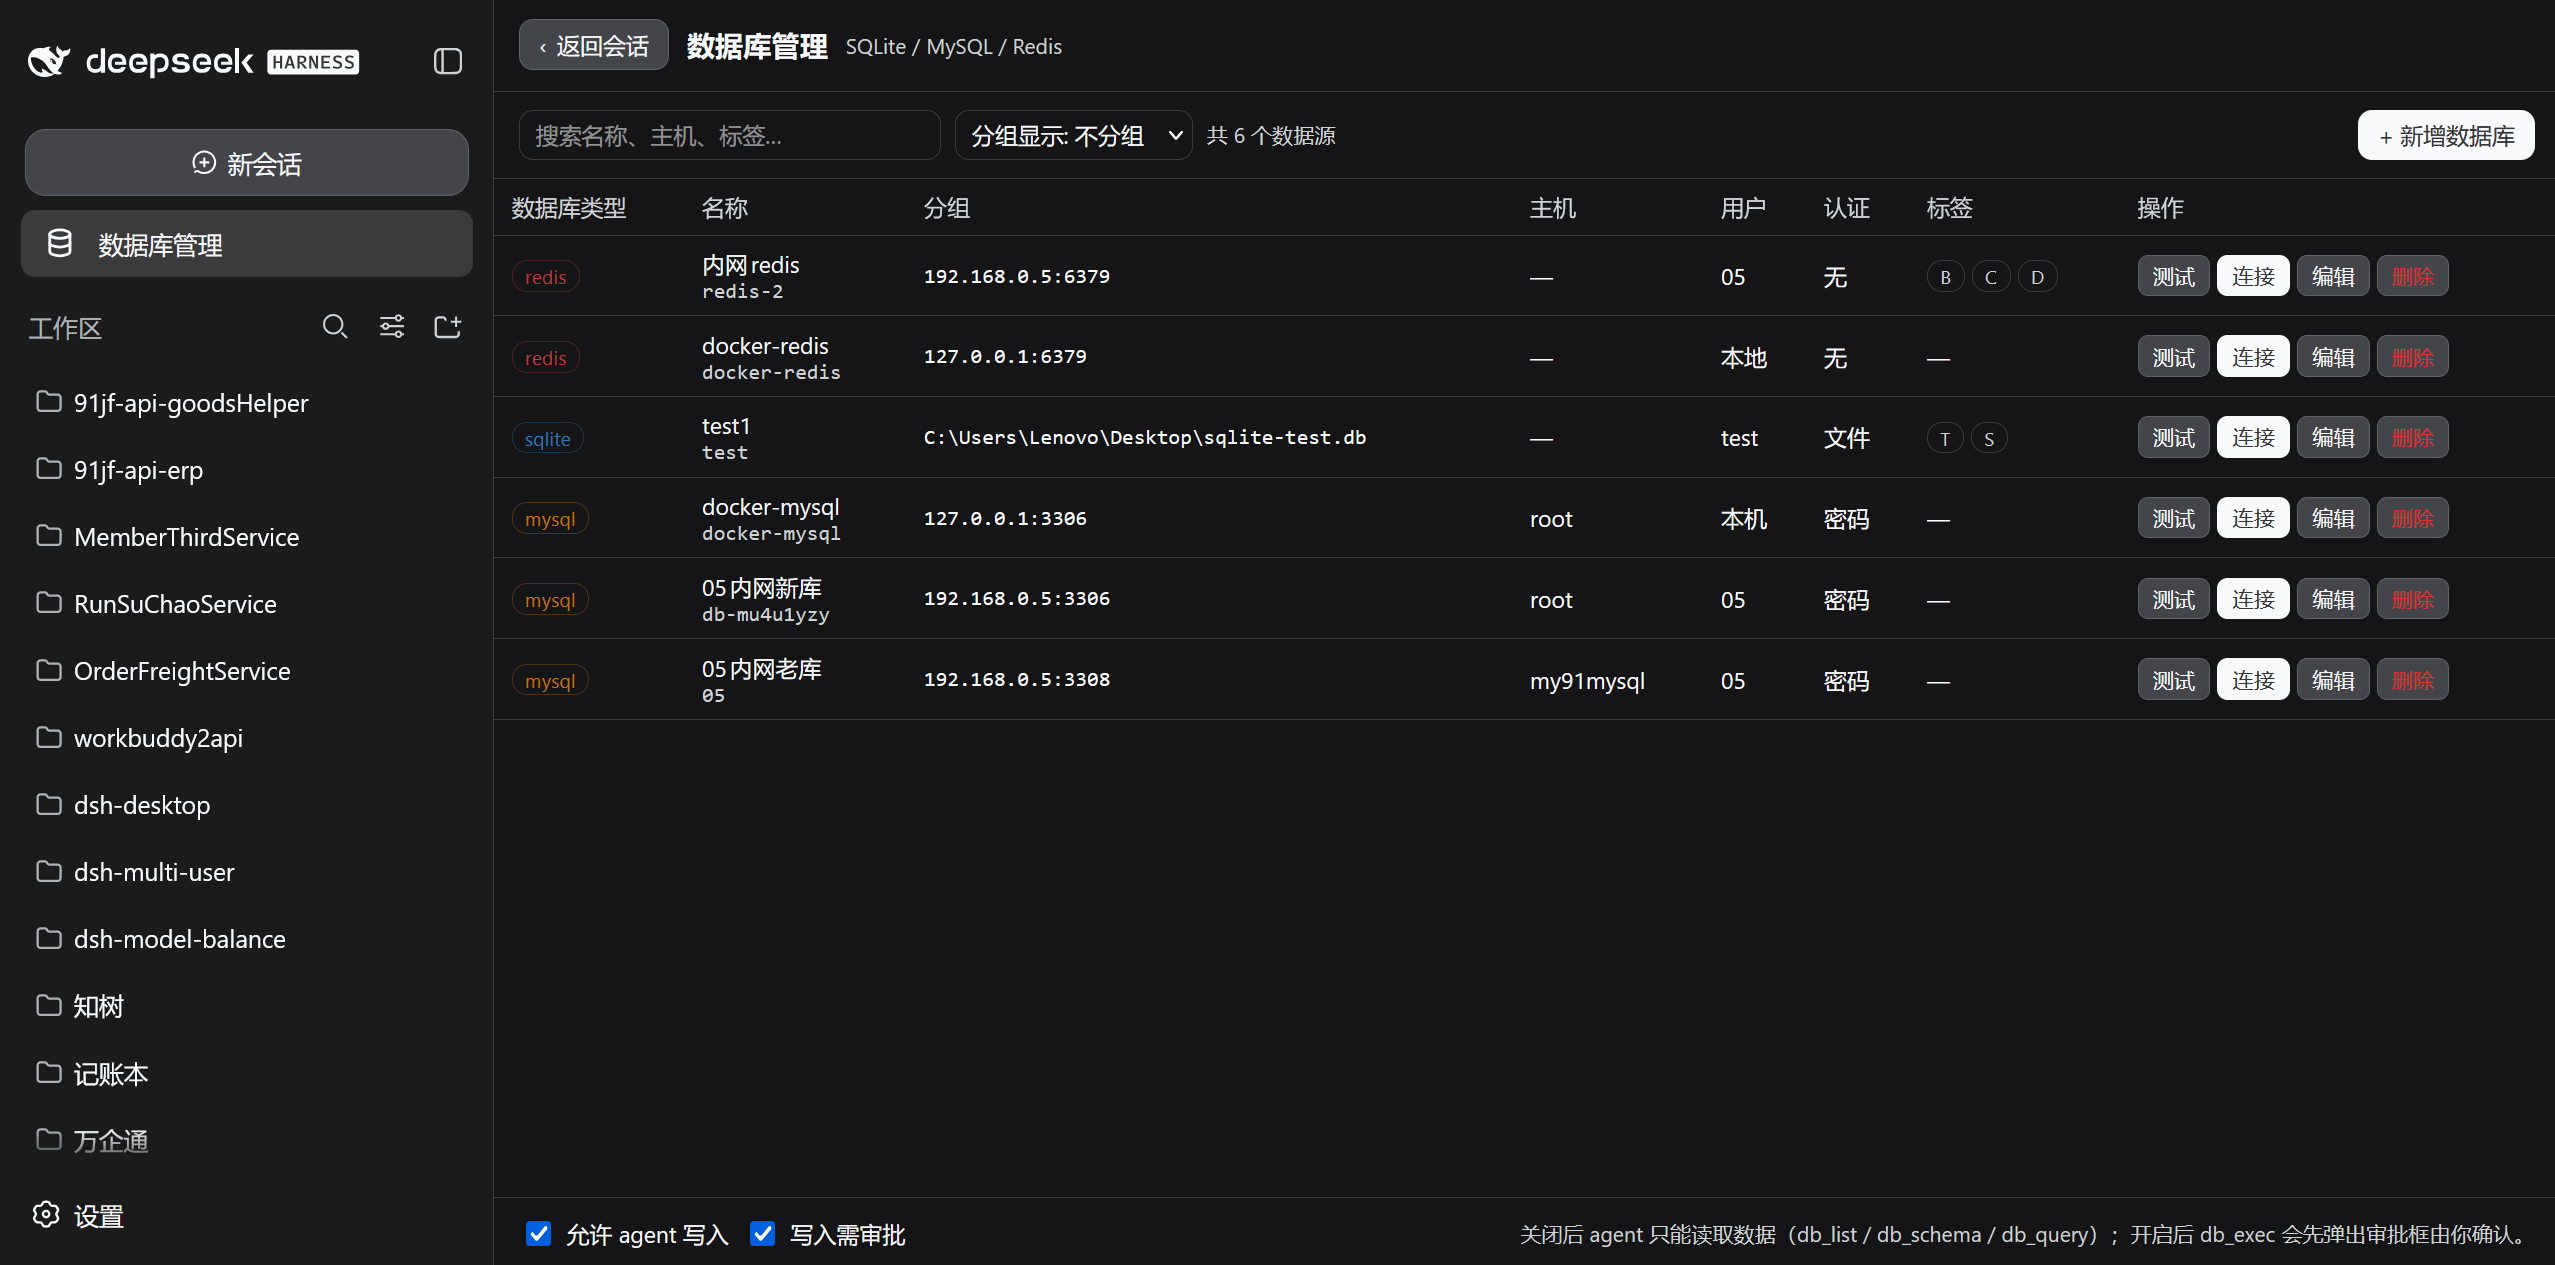
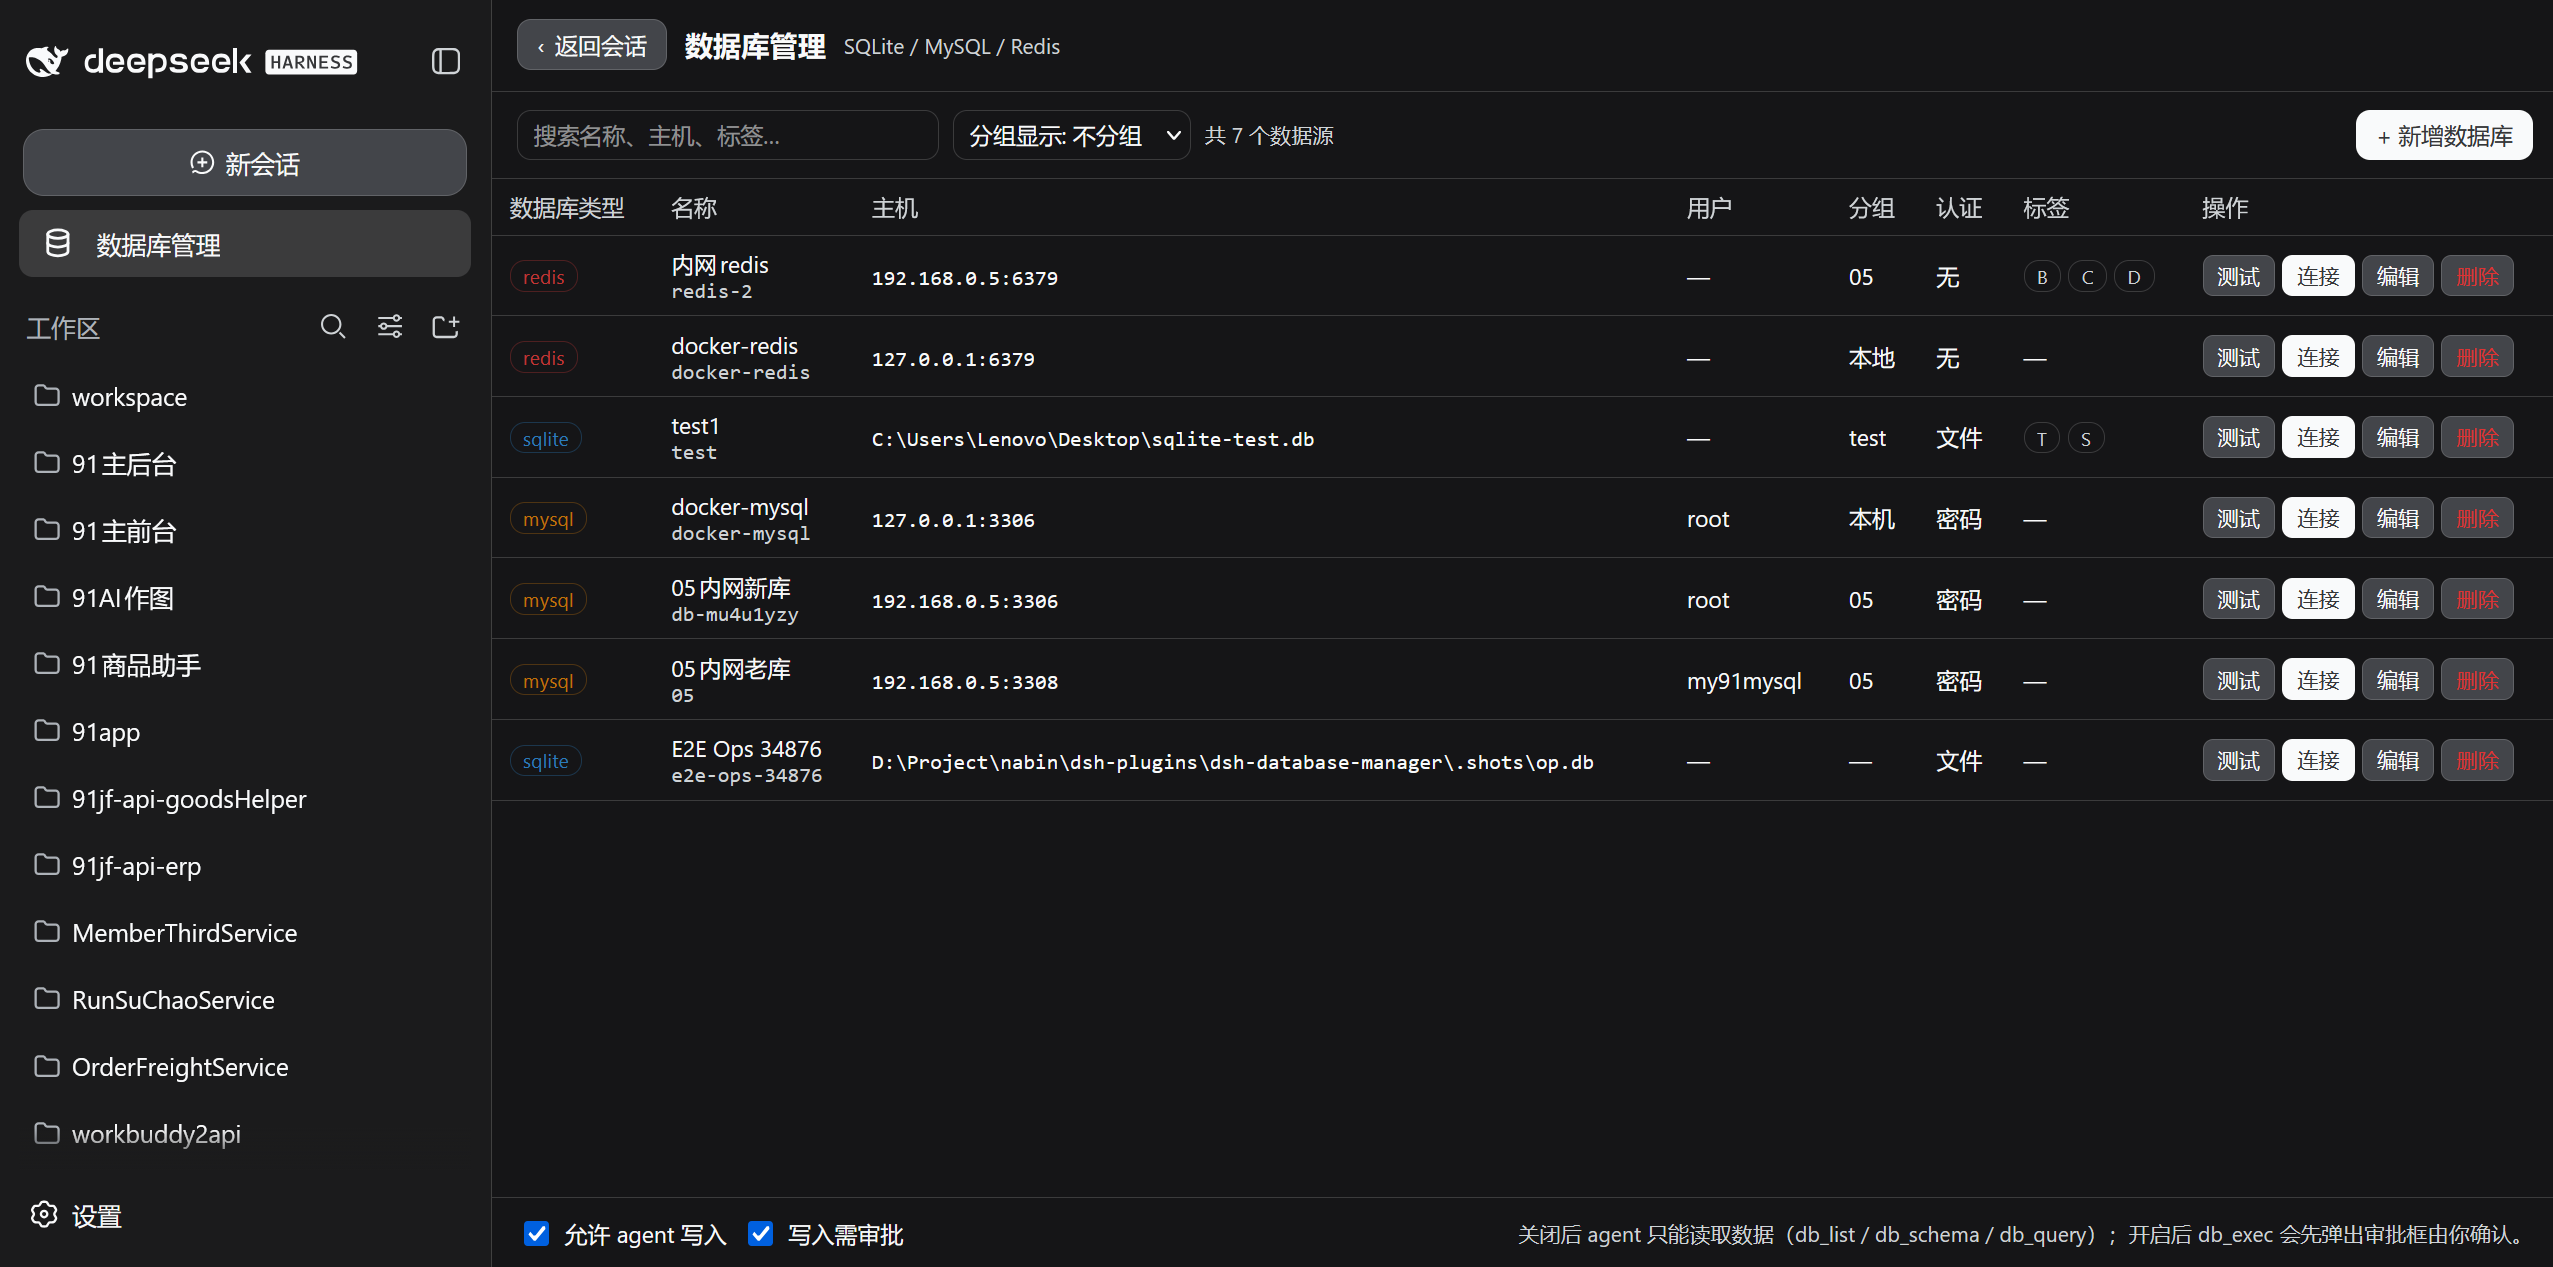
docs: 补全界面截图，并按「只讲本项目功能」清理 README
README 原先把本面板定位成 phpMyAdmin / RedisDesktopManager 的类比（「类 phpMyAdmin」「照 phpMyAdmin 的操作页」「五块按 phpMyAdmin 的顺序」等），并在能力边界末尾导流到一份内部对照报告。这是给使用者看的项目说明，不该把别人的产品当作自己的功能说明，也不该在文档里指向不公开的内部记录。

改动：删除 README.md / README.en.md 中全部 phpMyAdmin、RedisDesktopManager、Navicat、redis-cli 的提法，改为直接描述本项目功能；补入 5 张新截图（数据库列表正名为 sql-databases.png，新增浏览 / 结构 / 插入 / 搜索 / 操作各一），中英两版逐节对应，共 8 图。

截图数据取自本地 docker-mysql 与本地 Redis，不含内网地址。

diff --git a/README.en.md b/README.en.md
@@ -8,7 +8,7 @@
 
 A **database management** panel for the [DeepSeek Harness](https://github.com/deepseek-ai/deepseek-harness) Web GUI: one "Database Manager" entry in the sidebar that opens a unified panel for **SQLite / MySQL / Redis**, plus a set of agent tools gated behind a write-protection switch.
 
-No need to leave DSH, and no need to open Navicat / RedisDesktopManager / redis-cli in parallel: browse rows, change schemas, run SQL and inspect Redis keys all in the same interface.
+No need to leave DSH, and no need to open a separate database client: browse rows, change schemas, run SQL and inspect Redis keys all in the same interface.
 
 <p align="center"><img src="docs/images/data-source-list.png" alt="Data source list" width="900"></p>
 
@@ -36,7 +36,7 @@ No need to leave DSH, and no need to open Navicat / RedisDesktopManager / redis-
 - Actions: **Test** (connectivity + latency + server version), **Connect** (open the engine panel), **Edit**, **Delete**
 - Every source carries its own **read-only** flag plus tags / group, and can be added or removed at runtime — no config file edits, no restart
 
-### MySQL / SQLite Panel (phpMyAdmin-style)
+### MySQL / SQLite Panel
 
 A schema / table tree on the left (search filter, view markers, row counts), six tabs on the right:
 
@@ -45,13 +45,13 @@ A schema / table tree on the left (search filter, view markers, row counts), six
 | **Browse** | Paging and page jump, sort by column, sort by index, column comments under the column name, table comment at the right of the paging row, double-click a cell to edit in place, row edit / copy to insert form / delete, multi-select bulk delete. Also hosts SQL result sets |
 | **Structure** | Change / drop / add columns (same controls as the create-table page), primary key editing, unique constraints, index management, distinct-value counts; the action column is pinned to the far right |
 | **SQL** | Editor, Ctrl+Enter to run; SELECT results land on the Browse tab |
-| **Search** | phpMyAdmin-style query by example (QBE): one row per column, only rows with a value take part, conditions are ANDed |
+| **Search** | Query by example (QBE): one row per column, only rows with a value take part, conditions are ANDed |
 | **Insert** | Controls chosen per column type; "number of rows to insert" generates several independent forms submitted in one transaction |
-| **Operations** | Modelled on the phpMyAdmin operations page: move table / table options / copy table / table maintenance / delete data or table |
+| **Operations** | Move table / table options / copy table / table maintenance / delete data or table |
 
 There is also **import / export**: SQL dump (structure / data / DROP optional, whole database or a single table) and CSV (current table), both performed in the browser.
 
-### Redis Panel (RedisDesktopManager-style)
+### Redis Panel
 
 A **key tree** on the left, three tabs on the right:
 
@@ -107,11 +107,41 @@ Two classes of dangerous operation on large tables state their cost before you c
 
 All three source kinds in one place: kind, name, host, user, authentication and tags visible at a glance, with Test / Connect / Edit / Delete per row. The two write-protection switches sit at the bottom of the panel.
 
-### SQL panel
+### Database list and database operations
 
-<p align="center"><img src="docs/images/sql-panel.png" alt="SQL panel" width="900"></p>
+<p align="center"><img src="docs/images/sql-databases.png" alt="Database list and database operations" width="900"></p>
 
-The schema / table tree on the left, the table list and database operations on the right (export database, import into database, rename, copy database, charset, create table). Opening a table reveals six tabs: Browse / Structure / SQL / Search / Insert / Operations.
+The schema / table tree on the left, the table list and database operations on the right (export database, import into database, rename, copy database, charset, create table).
+
+### Browsing data
+
+<p align="center"><img src="docs/images/sql-browse.png" alt="Browsing data" width="900"></p>
+
+Paging and page jump, sort by index, double-click a cell to edit in place, with edit / copy / delete at the end of each row. Column comments sit under the column name, the table comment at the right of the paging row.
+
+### Table structure
+
+<p align="center"><img src="docs/images/sql-structure.png" alt="Table structure" width="900"></p>
+
+Column attributes at a glance (type, nullable, key, default, extra, distinct-value count, comment) with the action column pinned to the far right; indexes are listed below.
+
+### Inserting data
+
+<p align="center"><img src="docs/images/sql-insert.png" alt="Inserting data" width="900"></p>
+
+One row per column, controls chosen by column type. Auto-increment columns are marked "auto-generated when left blank", `datetime` gets a date picker, `enum` a member dropdown, long text a multi-line box with an "empty string" checkbox.
+
+### Searching data
+
+<p align="center"><img src="docs/images/sql-search.png" alt="Searching data" width="900"></p>
+
+Query by example: the header is field / type / collation / operator / value with **one row per column**, only rows with a value take part, and conditions are ANDed. `Execute` and `Clear conditions` stick to the bottom of the viewport.
+
+### Table operations
+
+<p align="center"><img src="docs/images/sql-operations.png" alt="Table operations" width="900"></p>
+
+Move table / table options / copy table / table maintenance / delete data or table — five blocks in order.
 
 ### Redis panel
 
@@ -274,7 +304,7 @@ The E2E scripts (`scripts/e2e-*.mjs`) assert interface **behaviour** rather than
 
 ## Scope and Limitations
 
-This panel is positioned as a **lightweight panel for day-to-day data browsing, schema changes and SQL**, not a MySQL server management suite. What it deliberately does **not** do, compared with phpMyAdmin:
+This panel is positioned as a **lightweight panel for day-to-day data browsing, schema changes and SQL**, not a MySQL server management suite. It deliberately does **not** do:
 
 - User and privilege management (creating users, grants, password changes, account locking)
 - Server status, processes, variables, charsets, engines, plugins, binary log, replication
@@ -284,8 +314,6 @@ This panel is positioned as a **lightweight panel for day-to-day data browsing, 
 - Export covers only SQL dumps and CSV (no compression, no result-set export, single-table truncation at 200k rows)
 - The SQL tab runs one statement at a time, with no syntax highlighting / autocomplete / formatting, and no query history or bookmarks
 - The Structure tab's index path supports primary / unique / index only and **cannot create FULLTEXT or SPATIAL indexes** (the create-table page can)
-
-A feature-by-feature comparison against phpMyAdmin 5.2.3 exists, covering browse / structure / insert / SQL / search / import-export / database operations / users and privileges / everything else, along with the capabilities this panel has that phpMyAdmin lacks. It is an internal research record and is not published with this repository.
 
 ## License
 

diff --git a/README.md b/README.md
@@ -8,7 +8,7 @@
 
 为 [DeepSeek Harness](https://github.com/deepseek-ai/deepseek-harness) Web GUI 提供**数据库管理**面板：侧边栏一个「数据库管理」入口，打开后统一管理 **SQLite / MySQL / Redis**，并提供一组受写保护闸门约束的 agent 工具。
 
-不用离开 DSH，也不用另开 Navicat / RedisDesktopManager / redis-cli：在同一个界面里查数据、改结构、跑 SQL、翻 Redis 键值。
+不用离开 DSH，也不用另外打开一个数据库客户端：在同一个界面里查数据、改结构、跑 SQL、翻 Redis 键值。
 
 <p align="center"><img src="docs/images/data-source-list.png" alt="数据源列表" width="900"></p>
 
@@ -36,7 +36,7 @@
 - 操作列：**测试**（连通性 + 延迟 + 服务端版本）、**连接**（进入对应数据库面板）、**编辑**、**删除**
 - 每个数据源带独立的**只读**标记与**标签 / 分组**，可运行时增删，不必改配置文件、不必重启
 
-### MySQL / SQLite 面板（类 phpMyAdmin）
+### MySQL / SQLite 面板
 
 左侧库 / 表树（搜索过滤、视图标记、行数），右侧六个标签页：
 
@@ -45,13 +45,13 @@
 | **浏览** | 分页与跳页、点列排序、按索引排序、列名下方显示列注释、分页行右侧显示表注释、双击单元格就地编辑、行编辑 / 复制到插入表单 / 删除、多选批量删除。也用于承载 SQL 查询的结果集 |
 | **结构** | 改列 / 删列 / 新增列（与建表页同一套控件）、主键编辑、唯一约束、索引管理、非重复值计数；操作列固定在表格最右 |
 | **SQL** | 编辑器，Ctrl+Enter 执行；SELECT 的结果落在浏览页 |
-| **搜索** | phpMyAdmin 的依例查询（QBE）：每列一行，填了值的行才参与，条件之间是 AND |
+| **搜索** | 依例查询（QBE）：每列一行，填了值的行才参与，条件之间是 AND |
 | **插入** | 按列类型给控件；「要插入的行数」可生成多组独立表单，整批一个事务提交 |
-| **操作** | 照 phpMyAdmin 的操作页：移动表 / 表选项 / 复制表 / 表维护 / 删除数据或表 |
+| **操作** | 移动表 / 表选项 / 复制表 / 表维护 / 删除数据或表 |
 
 另有 **导入导出**：SQL 转储（结构 / 数据 / DROP 可选，整库或单表）与 CSV（当前表），均在浏览器侧完成。
 
-### Redis 面板（类 RedisDesktopManager）
+### Redis 面板
 
 左侧**目录树**，右侧三个标签页：
 
@@ -107,11 +107,41 @@
 
 统一管理三类数据源：类型、名称、主机、用户、认证方式、标签一屏可见，每行带测试 / 连接 / 编辑 / 删除。面板底部是写保护的两个策略开关。
 
-### SQL 面板
+### 数据库列表与库操作
 
-<p align="center"><img src="docs/images/sql-panel.png" alt="SQL 面板" width="900"></p>
+<p align="center"><img src="docs/images/sql-databases.png" alt="数据库列表与库操作" width="900"></p>
 
-左侧库 / 表树，右侧表列表与库操作（导出整库、导入到本库、重命名、复制数据库、字符集、新建表）。进入某张表后是浏览 / 结构 / SQL / 搜索 / 插入 / 操作六个标签页。
+左侧库 / 表树，右侧表列表与库操作（导出整库、导入到本库、重命名、复制数据库、字符集、新建表）。
+
+### 数据浏览
+
+<p align="center"><img src="docs/images/sql-browse.png" alt="数据浏览" width="900"></p>
+
+分页与跳页、按索引排序、双击单元格就地编辑，行尾是编辑 / 复制 / 删除。列注释显示在列名下方，表注释显示在分页行右侧。
+
+### 表结构
+
+<p align="center"><img src="docs/images/sql-structure.png" alt="表结构" width="900"></p>
+
+列属性一屏可见（类型、可空、键、默认值、额外、非重复值计数、注释），操作列固定在表格最右；下方是索引区块。
+
+### 数据插入
+
+<p align="center"><img src="docs/images/sql-insert.png" alt="数据插入" width="900"></p>
+
+每列一行，控件按列类型给。自增列标注「留空则自动生成」，`datetime` 给日期选择器，`enum` 给成员下拉，长文本给多行框并带「空字符串」勾选框。
+
+### 数据搜索
+
+<p align="center"><img src="docs/images/sql-search.png" alt="数据搜索" width="900"></p>
+
+依例查询（QBE）：表头是字段 / 类型 / 排序规则 / 运算符 / 值，**每一列占一行**，填了值的行才参与，条件之间是 AND。`执行` 与 `清空条件` 吸附在视口底部。
+
+### 表操作
+
+<p align="center"><img src="docs/images/sql-operations.png" alt="表操作" width="900"></p>
+
+移动表 / 表选项 / 复制表 / 表维护 / 删除数据或表，五块依次排列。
 
 ### Redis 面板
 
@@ -274,7 +304,7 @@ E2E 脚本（`scripts/e2e-*.mjs`）用真实浏览器 + 真实数据库逐项断
 
 ## 能力边界
 
-这个面板的定位是**日常查数据、改结构、跑 SQL 的轻量面板**，不是 MySQL 服务器管理套件。相对 phpMyAdmin 明确**不做**的部分：
+这个面板的定位是**日常查数据、改结构、跑 SQL 的轻量面板**，不是 MySQL 服务器管理套件。以下这些**不做**：
 
 - 用户与权限管理（建用户 / 授权 / 改密码 / 账号锁定）
 - 服务器状态、进程、变量、字符集、引擎、插件、binlog、复制页
@@ -284,8 +314,6 @@ E2E 脚本（`scripts/e2e-*.mjs`）用真实浏览器 + 真实数据库逐项断
 - 导出只支持 SQL 转储与 CSV（无压缩、无结果集导出、单表 20 万行截断）
 - SQL 页一次一条语句，无语法高亮 / 自动补全 / 格式化，无查询历史与书签
 - 结构页索引通路只支持 primary / unique / index，**不能建 FULLTEXT 与 SPATIAL 索引**（建表页可以）
-
-有一份与 phpMyAdmin 5.2.3 的逐项功能对照，覆盖浏览 / 结构 / 插入 / SQL / 搜索 / 导入导出 / 库级操作 / 用户权限 / 其他九大块，以及本面板相对 phpMyAdmin 的独有能力。它属于内部研究记录，未随本仓库公开。
 
 ## 许可证
 
